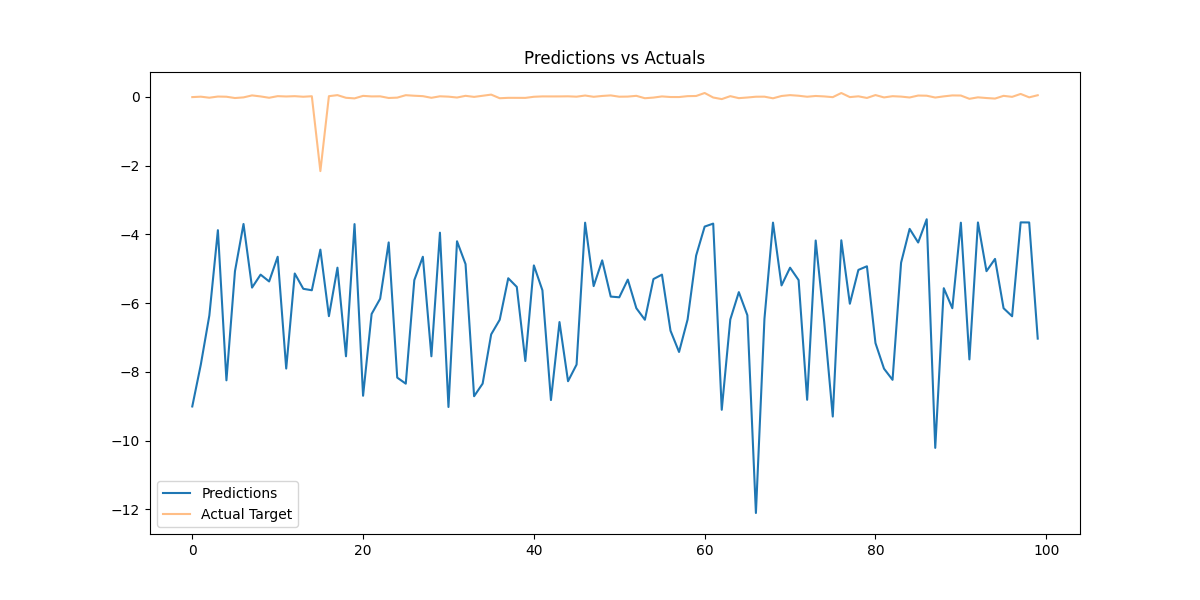
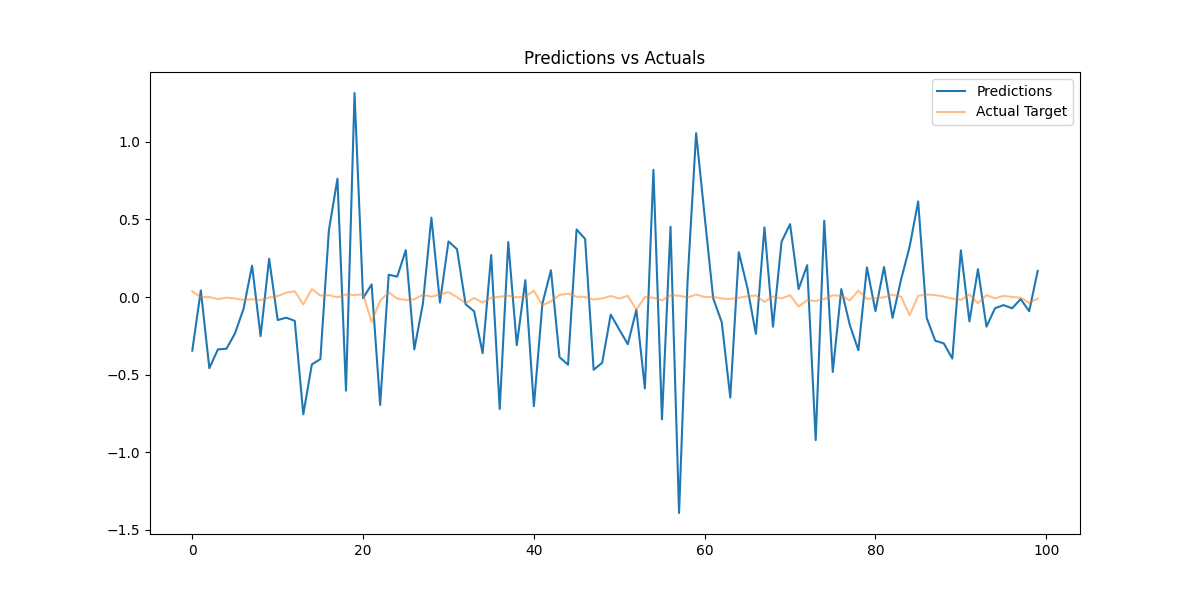
dynamically grabs close column index

diff --git a/main.py b/main.py
@@ -219,7 +219,7 @@ def main() -> None:
         save_directory="nasdaq_dataset",
         security_type=SecurityType.STOCK,
         dataset_creation_option=NASDAQDatasetCreationOptions.REPLACE,
-        target=50,
+        target=500,
     )
 
     data_loaders = create_data_loaders_from(
@@ -228,13 +228,20 @@ def main() -> None:
         load_datasets_from_memory=LOAD_DATASET_FROM_MEMORY,
     )
 
+    # Get close column dynamically
+    feature_names = data_loaders.train.dataset.feature_cols  # pyright: ignore[reportAttributeAccessIssue]
+    try:
+        target_idx = feature_names.index("Close")
+    except ValueError:
+        raise ValueError(f"{RED}'Close' column not found in dataset features!{RESET}")
+
     model: StockPredictionModel = StockPredictionModel(
         input_dim=9,
         hidden_dim=64,
         num_layers=2,
         output_dim=1,
         dropout=0.2,
-        target_feature_idx=0,
+        target_feature_idx=target_idx,
         device=device,
     ).to(device)
     huber_loss: nn.HuberLoss = nn.HuberLoss(reduction="sum").to(device)
@@ -264,7 +271,7 @@ def main() -> None:
         losses: float = train_step(
             model,
             data_loaders.train,
-            huber_loss if epoch <= loss_epoch_switch else directional_mse_loss,
+            huber_loss,  # if epoch <= loss_epoch_switch else directional_mse_loss,
             optimizer,
             epoch,
         )

diff --git a/stocks.py b/stocks.py
@@ -17,14 +17,14 @@ class NASDAQDataLoaders:
 
 class NASDAQDataset(Dataset):
     def __init__(self: Self, df: pl.DataFrame) -> None:
-        feature_cols: List[str] = list(df.columns)
-        feature_cols.remove("Target")
+        self.feature_cols: List[str] = list(df.columns)
+        self.feature_cols.remove("Target")
 
         n_samples: int = len(df)
-        sequence_length: int = len(df[feature_cols[0]][0])
+        sequence_length: int = len(df[self.feature_cols[0]][0])
 
         flat_features: np.ndarray = (
-            df.select(feature_cols).explode(feature_cols).to_numpy()
+            df.select(self.feature_cols).explode(self.feature_cols).to_numpy()
         )
 
         # Converting the flat numpy array to a tensor, then 'viewing' it as a 3D tensor.
